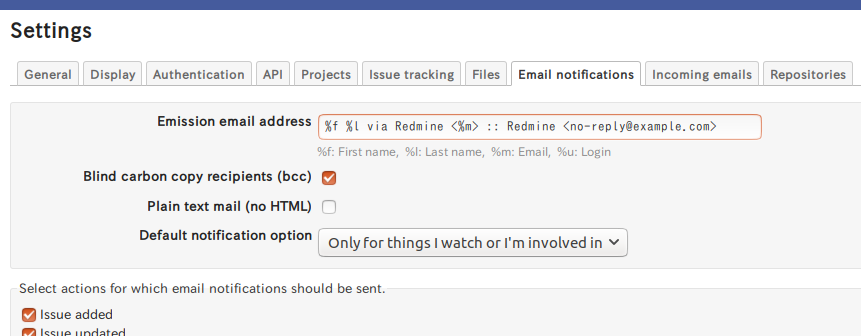
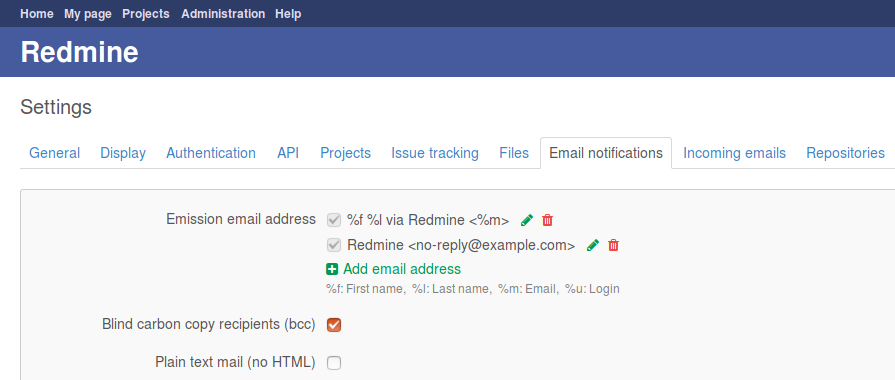
UI improvement

diff --git a/init.rb b/init.rb
@@ -8,8 +8,8 @@ end
 Redmine::Plugin.register :redmine_mail_from do
   name 'Redmine Mail From plugin'
   author 'Takeshi Nakamura'
-  description 'Extends mail from filed'
-  version '1.2.0'
+  description 'Extends mail "From:" header fieled'
+  version '1.3.0'
   url 'https://github.com/taqueci/redmine_mail_from'
   author_url 'https://github.com/taqueci'
 end

diff --git a/README.md b/README.md
@@ -19,7 +19,7 @@ When a notification is sent, `%f`, `%l`, `%m` and `%u` are replaced with:
 * `%m` - Mail address
 * `%u` - Login name
 
-Multiple mail addresses can be specified by separating with `::`.
+Multiple emission mail addresses can be specified.
 The plugin tries to replace placeholders in the first one.
 If fails, it tries the next one.
 
